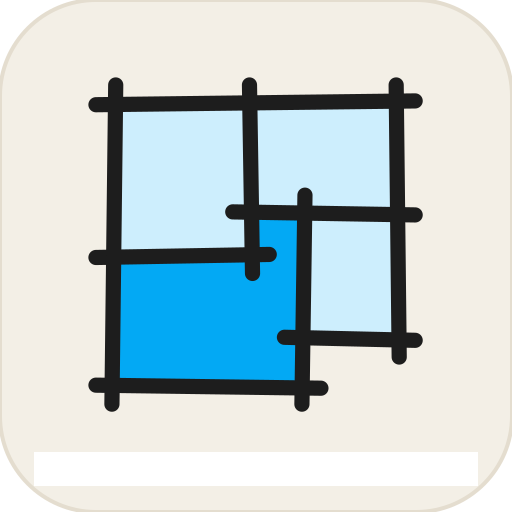
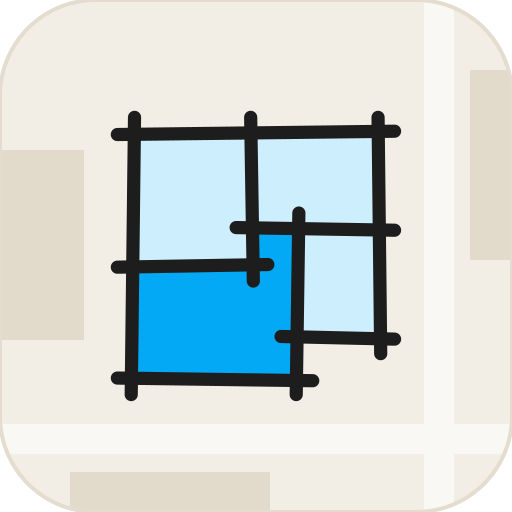
feat: Use the final brand geometry and map tile
The tile now shows the plan on a muted map ground (neighbour blocks and two roads)
clipped to the rounded edge, so it reads as a map without competing with the plan.
Walls keep straight base lines with a small per-end offset, and every SVG carries a
title and aria-label so it is announced as Spatial.

diff --git a/tools/brand/make_icons.py b/tools/brand/make_icons.py
@@ -10,14 +10,34 @@ TOOLS = pathlib.Path(__file__).resolve().parent
 LIGHT = {"stroke": "#1d1d1d", "rest": "#cdeefd", "active": "#03a9f4", "aop": "1"}
 DARK = {"stroke": "#eeeeee", "rest": "#1f3a48", "active": "#03a9f4", "aop": "1"}
 MONO = {"stroke": "currentColor", "rest": "none", "active": "currentColor", "aop": "0.35"}
-TILE_LIGHT = {**LIGHT, "ground": "#f3efe6", "road": "#ffffff", "edge": "#e4ddcf"}
-TILE_DARK = {**DARK, "ground": "#1e2024", "road": "#34383e", "edge": "#2d3036"}
+TILE_LIGHT = {
+    **LIGHT, "ground": "#f2eee5", "road": "#faf8f4", "building": "#e2dacb", "edge": "#e4ddcf",
+}  # fmt: skip
+TILE_DARK = {
+    **DARK, "ground": "#1d1f23", "road": "#26292e", "building": "#2c2f36", "edge": "#2d3036",
+}  # fmt: skip
 
-LINES = [
-    (46, 72, 466, 67), (226, 213, 466, 217), (46, 273, 274, 269),
-    (294, 378, 466, 382), (46, 441, 342, 445), (72, 46, 67, 466),
-    (248, 46, 252, 294), (321, 191, 317, 466), (441, 46, 445, 404),
+# Straight base lines with a small hand-drawn offset per end: x1, y1, x2, y2, wobble1, wobble2.
+WALLS = [
+    (46, 70, 466, 70, (0, 2), (0, -3)),
+    (226, 215, 466, 215, (0, -2), (0, 2)),
+    (46, 270, 274, 270, (0, 3), (0, -1)),
+    (294, 380, 466, 380, (0, -2), (0, 2)),
+    (46, 442, 342, 442, (0, -1), (0, 3)),
+    (70, 46, 70, 466, (2, 0), (-3, 0)),
+    (250, 46, 250, 294, (-2, 0), (2, 0)),
+    (318, 191, 318, 466, (3, 0), (-1, 0)),
+    (442, 46, 442, 404, (-1, 0), (3, 0)),
 ]  # fmt: skip
+
+# Muted neighbour blocks and two roads: the tile reads as a map, the plan keeps the focus.
+MAP_GROUND = (
+    '<rect x="-20" y="150" width="104" height="190" fill="{building}"/>'
+    '<rect x="470" y="70" width="80" height="190" fill="{building}"/>'
+    '<rect x="70" y="472" width="200" height="80" fill="{building}"/>'
+    '<rect x="-6" y="424" width="524" height="30" fill="{road}"/>'
+    '<rect x="424" y="-6" width="30" height="524" fill="{road}"/>'
+)
 
 
 def plan(c: dict[str, str]) -> str:
@@ -31,22 +51,34 @@ def plan(c: dict[str, str]) -> str:
         f'fill="{c["active"]}" fill-opacity="{c["aop"]}"/>'
     )
     out.append(f'<g stroke="{c["stroke"]}" stroke-width="20" stroke-linecap="round" fill="none">')
-    out += [f'<line x1="{a}" y1="{b}" x2="{x}" y2="{y}"/>' for a, b, x, y in LINES]
+    out += [
+        f'<line x1="{x1 + a[0]}" y1="{y1 + a[1]}" x2="{x2 + b[0]}" y2="{y2 + b[1]}"/>'
+        for x1, y1, x2, y2, a, b in WALLS
+    ]
     out.append("</g>")
     return "\n".join(out)
 
 
 def svg(body: str) -> str:
-    head = '<svg xmlns="http://www.w3.org/2000/svg" viewBox="0 0 512 512" width="512" height="512">'
-    return f"{head}\n{body}\n</svg>\n"
+    head = (
+        '<svg xmlns="http://www.w3.org/2000/svg" viewBox="0 0 512 512" width="512" height="512" '
+        'role="img" aria-label="Spatial">'
+    )
+    return f"{head}\n<title>Spatial</title>\n{body}\n</svg>\n"
 
 
 def tile(c: dict[str, str]) -> str:
+    # Unique clip id per theme so two tiles inlined in one page cannot clash.
+    clip = f"tile-{c['ground'][1:]}"
     return svg(
-        f'<rect width="512" height="512" rx="96" fill="{c["ground"]}" '
-        f'stroke="{c["edge"]}" stroke-width="4"/>\n'
-        f'<rect x="34" y="452" width="444" height="34" fill="{c["road"]}"/>\n'
-        f'<g transform="translate(61 50) scale(0.76)">\n{plan(c)}\n</g>'
+        f'<defs><clipPath id="{clip}"><rect width="512" height="512" rx="96"/></clipPath></defs>\n'
+        f'<g clip-path="url(#{clip})">\n'
+        f'<rect width="512" height="512" fill="{c["ground"]}"/>\n'
+        f"{MAP_GROUND.format(**c)}\n"
+        "</g>\n"
+        f'<rect width="512" height="512" rx="96" fill="none" stroke="{c["edge"]}" '
+        'stroke-width="4"/>\n'
+        f'<g transform="translate(87 87) scale(0.66)">\n{plan(c)}\n</g>'
     )
 
 
